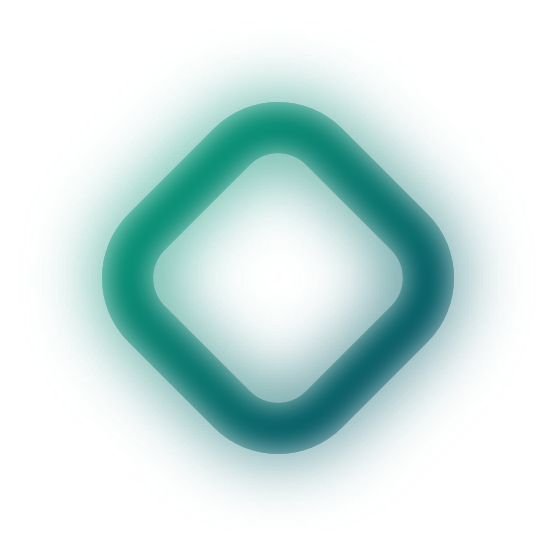
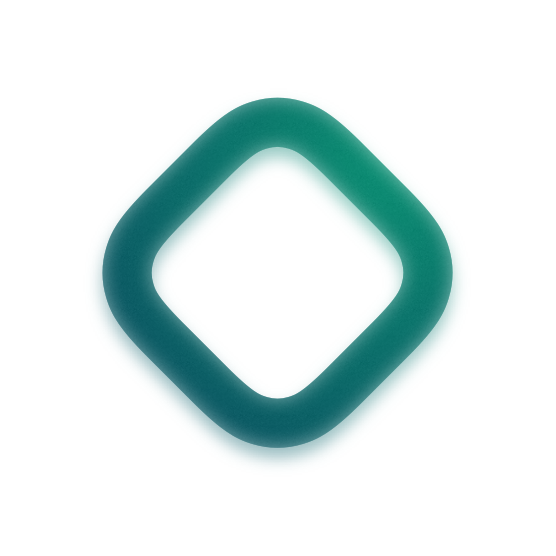
New branding and the beggining of the projects page. Also I added mailto to the contact page

diff --git a/src/projects.html b/src/projects.html
@@ -22,7 +22,7 @@
 </head>
 <body>
     <nav>
-		<img src="../assets/puffercattransparent.png" width="64px" height="64px" alt="Company" display="block" loading="lazy" decoding="async">
+		<img src="../assets/puffercattransparent.png" width="64px" height="64px" alt="Company" display="block" loading="lazy" decoding="async" class="debil-niper">
 		<div class="socials">
 			<ul>
 				<li>
@@ -124,14 +124,31 @@
 	<br>
     <h1 class="text-3xl font-bold">Projects</h1>
 	<br>
-	<h1 class="text-2xl font-bold">Work in progress</h1>
+	<!-- <h1 class="text-2xl font-bold">Work in progress</h1> -->
+	<div class="flex grid gap-8 grid-cols-3 grid-rows-3 text-center projects-desktop">
+		<div class="text-center rounded-3xl bg-neutral-700 shadow-md p-10">
+			<h1>CSS debil</h1>
+		</div>
+		<div class="text-center rounded-3xl bg-neutral-700 shadow-md p-10">
+			<h1>grid</h1>
+		</div>
+		<div class="text-center rounded-3xl bg-neutral-700 shadow-md p-10">
+			<h1>pomocy</h1>
+		</div>
+		<div class="text-center rounded-3xl bg-neutral-700 shadow-md p-10">
+			<h1>zabiję się</h1>
+		</div>
+		<div class="text-center rounded-3xl bg-neutral-700 shadow-md p-10">
+			<h1>i to jest tailwind więc i tak ułatwienie</h1>
+		</div>
+	</div>
 	<br>
 	<footer>
 		<p>Copyright © 2022 Kacper Zacharski. This website is <a href="https://github.com/KZacharski/puffercat.xyz">open-source</a> and is published on the MIT license.</p>
 		<p>Made with <a href="https://tailwindcss.com"><span><i class="fa-solid fa-wind"></i></span></a>, <a href="https://parceljs.org"><i class="fa-solid fa-box"></i></a> and <a href="https://yarnpkg.com"><i class="fa-solid fa-cat"></i></a> by <a href="https://github.com/KZacharski">Puffercat</a>.</p>
         <br>
-        <a class="badge" href="https://www.digitalocean.com/?refcode=5bb1b40ff63e&utm_campaign=Referral_Invite&utm_medium=Referral_Program&utm_source=badge"><img src="https://web-platforms.sfo2.digitaloceanspaces.com/WWW/Badge%202.svg" alt="DigitalOcean Referral Badge" /></a>
-        <a class="badge-dark"href="https://www.digitalocean.com/?refcode=5bb1b40ff63e&utm_campaign=Referral_Invite&utm_medium=Referral_Program&utm_source=badge"><img src="https://web-platforms.sfo2.cdn.digitaloceanspaces.com/WWW/Badge%201.svg" alt="DigitalOcean Referral Badge" /></a>
+        <a class="badge debil-kasztan" href="https://www.digitalocean.com/?refcode=5bb1b40ff63e&utm_campaign=Referral_Invite&utm_medium=Referral_Program&utm_source=badge"><img src="https://web-platforms.sfo2.digitaloceanspaces.com/WWW/Badge%202.svg" alt="DigitalOcean Referral Badge" /></a>
+        <a class="badge-dark debil-kasztan"href="https://www.digitalocean.com/?refcode=5bb1b40ff63e&utm_campaign=Referral_Invite&utm_medium=Referral_Program&utm_source=badge"><img src="https://web-platforms.sfo2.cdn.digitaloceanspaces.com/WWW/Badge%201.svg" alt="DigitalOcean Referral Badge" /></a>
 		<br>
 		<nav class="socials-mobile-parent">
 		<div class="socials-mobile">

diff --git a/src/index.html b/src/index.html
@@ -21,7 +21,7 @@
 </head>
 <body>
     <nav>
-		<img src="../assets/puffercattransparent.png" width="64px" height="64px" alt="Company" display="block" loading="lazy" decoding="async">
+		<img src="../assets/puffercattransparent.png" width="64px" height="64px" alt="Company" display="block" loading="lazy" decoding="async" class="debil-niper">
 		<div class="socials">
 			<ul>
 				<li>
@@ -122,7 +122,7 @@
 		</nav>
 	</div>
 	<br>
-	<h1 class="text-3xl font-bold">Hi, My name is Casper.</h1>
+	<h1 class="text-3xl font-bold debil-miatoll">Hi, My name is Casper.</h1>
     <br>
 	<p>I am a software developer, designer and content creator. In my free time I make music and make animations.
         <br>
@@ -139,7 +139,7 @@
 		</ul>
 		<br>
 		<br>
-        <h2 class="text-2xl font-bold">My devices</h2>
+        <h2 class="text-2xl font-bold debil-willow">My devices</h2>
 		<br>
 		<strong>Phones:</strong>
 		<ul>
@@ -174,8 +174,8 @@
 		<p>Copyright © 2022 Kacper Zacharski. This website is <a href="https://github.com/KZacharski/puffercat.xyz">open-source</a> and is published on the MIT license.</p>
 		<p>Made with <a href="https://tailwindcss.com"><span><i class="fa-solid fa-wind"></i></span></a>, <a href="https://parceljs.org"><i class="fa-solid fa-box"></i></a> and <a href="https://yarnpkg.com"><i class="fa-solid fa-cat"></i></a> by <a href="https://github.com/KZacharski">Puffercat</a>.</p>
         <br>
-        <a class="badge" href="https://www.digitalocean.com/?refcode=5bb1b40ff63e&utm_campaign=Referral_Invite&utm_medium=Referral_Program&utm_source=badge"><img src="https://web-platforms.sfo2.digitaloceanspaces.com/WWW/Badge%202.svg" alt="DigitalOcean Referral Badge" /></a>
-        <a class="badge-dark"href="https://www.digitalocean.com/?refcode=5bb1b40ff63e&utm_campaign=Referral_Invite&utm_medium=Referral_Program&utm_source=badge"><img src="https://web-platforms.sfo2.cdn.digitaloceanspaces.com/WWW/Badge%201.svg" alt="DigitalOcean Referral Badge" /></a>
+        <a class="badge debil-kasztan" href="https://www.digitalocean.com/?refcode=5bb1b40ff63e&utm_campaign=Referral_Invite&utm_medium=Referral_Program&utm_source=badge"><img src="https://web-platforms.sfo2.digitaloceanspaces.com/WWW/Badge%202.svg" alt="DigitalOcean Referral Badge" /></a>
+        <a class="badge-dark debil-kasztan"href="https://www.digitalocean.com/?refcode=5bb1b40ff63e&utm_campaign=Referral_Invite&utm_medium=Referral_Program&utm_source=badge"><img src="https://web-platforms.sfo2.cdn.digitaloceanspaces.com/WWW/Badge%201.svg" alt="DigitalOcean Referral Badge" /></a>
 		<br>
 		<nav class="socials-mobile-parent">
 		<div class="socials-mobile">

diff --git a/src/contact.html b/src/contact.html
@@ -130,7 +130,7 @@
     <br>
     <a href="https://twitter.com/intent/tweet?screen_name=puffercatt&ref_src=twsrc%5Etfw" class="twitter-mention-button" data-show-count="false">Tweet to @puffercatt</a><script async src="https://platform.twitter.com/widgets.js" charset="utf-8"></script>
 	<br>
-	<p><strong>E-mail: </strong>puffercatt@gmail.com</p>
+	<p><strong>E-mail: </strong><a href="mailto:puffercatt@gmail.com">puffercatt@gmail.com</a></p>
 	<p><strong>Matrix: </strong>@puffercat:matrix.org</p>
 	<br>
 	<footer>
